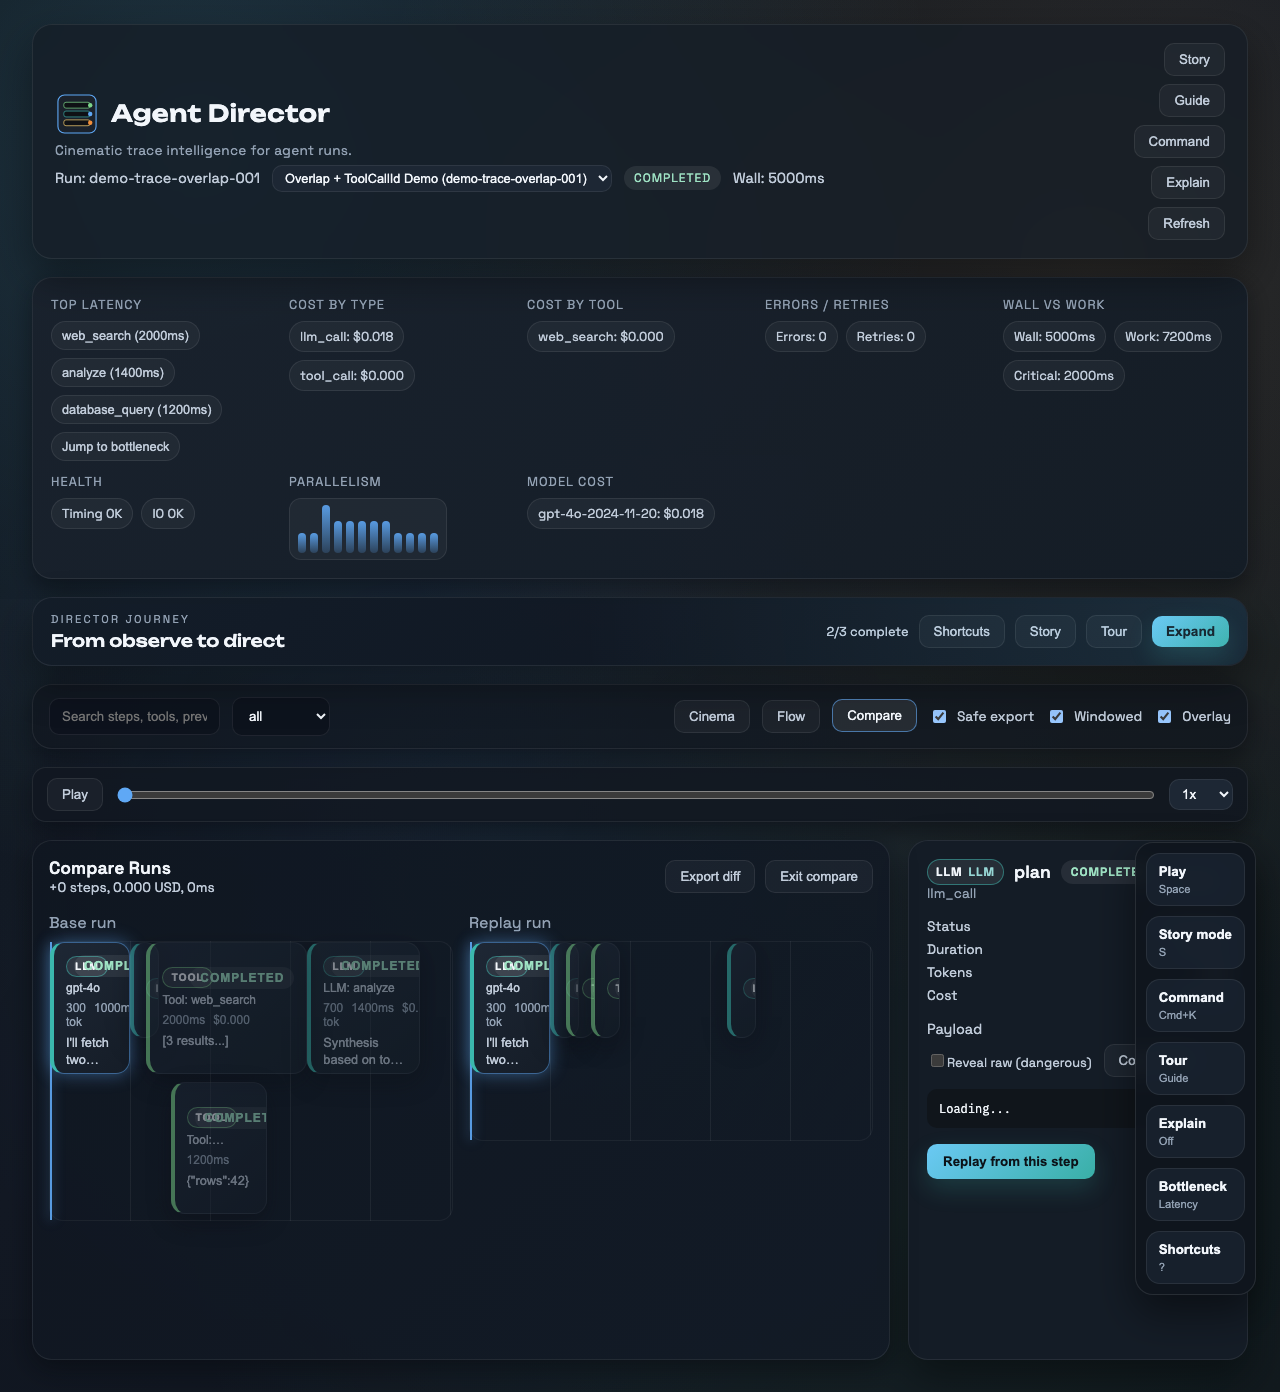
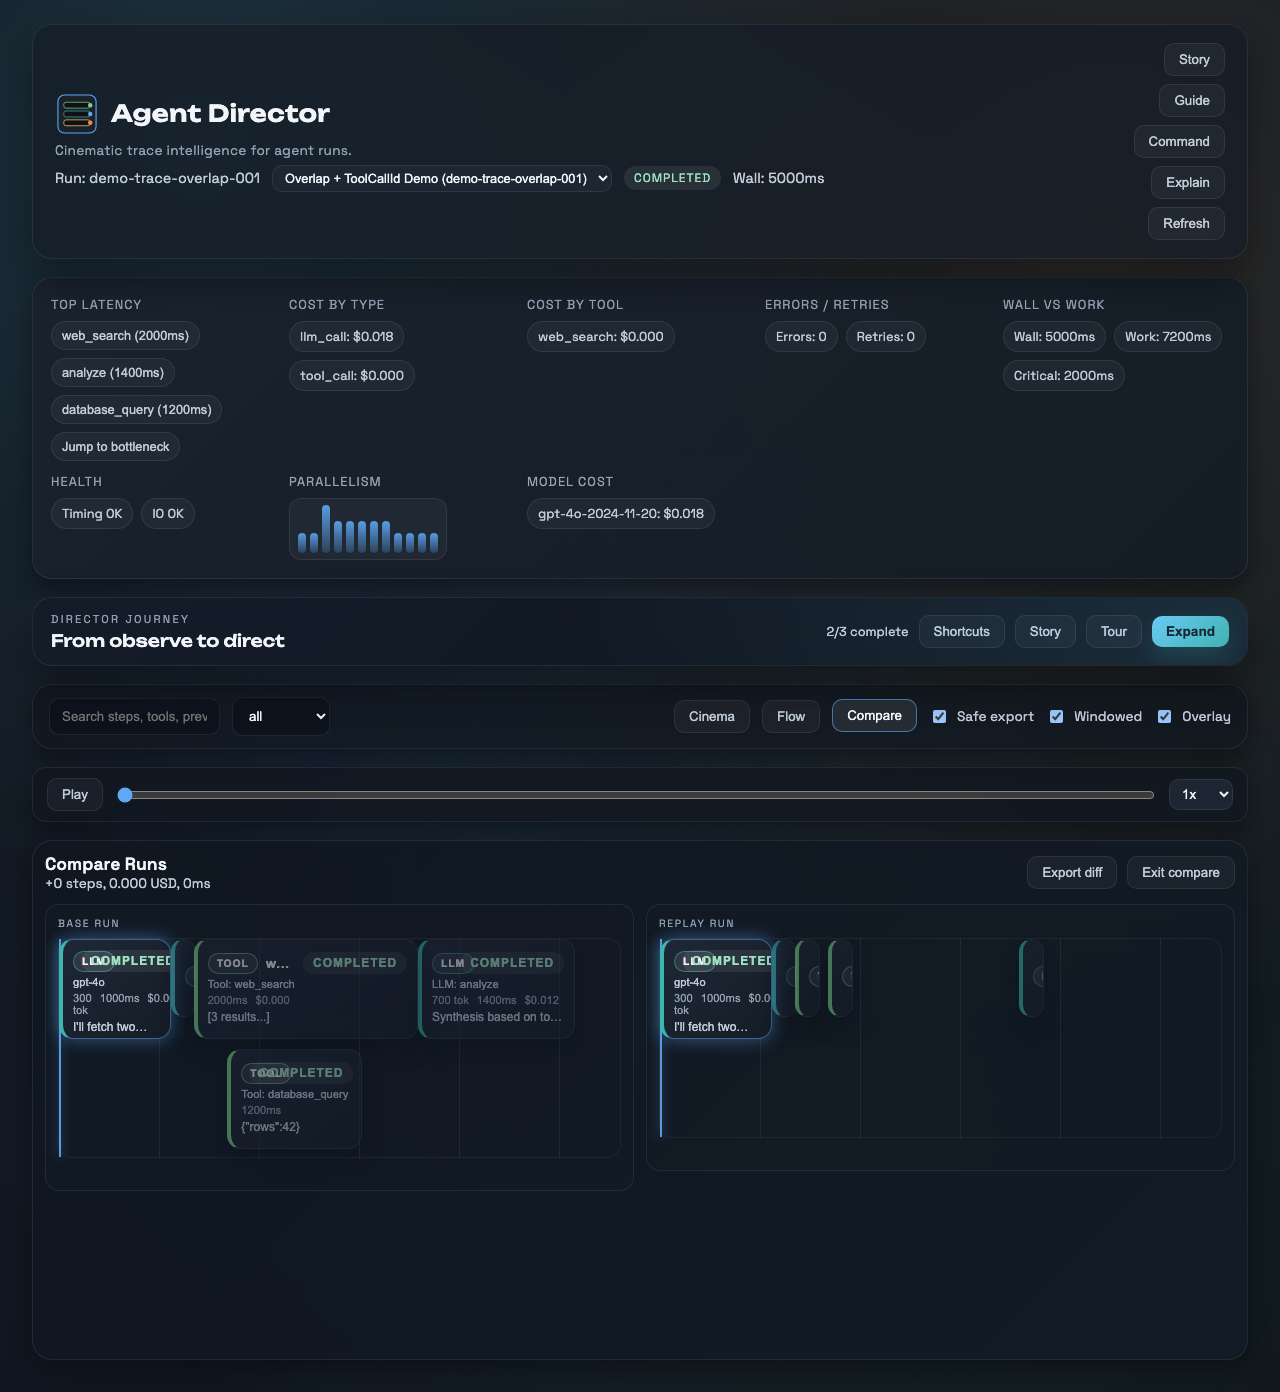
fix(ui): clean compare layout and hide distractions

diff --git a/ui/src/App.tsx b/ui/src/App.tsx
@@ -821,7 +821,7 @@ export default function App() {
   }
 
   return (
-    <div className={`app ${explainMode ? 'explain-mode' : ''}`}>
+    <div className={`app ${explainMode ? 'explain-mode' : ''} ${mode === 'compare' ? 'mode-compare' : ''}`}>
       <Header
         trace={trace}
         traces={traces}
@@ -1042,7 +1042,7 @@ export default function App() {
         </div>
       ) : null}
 
-      <main className="stage" role="main">
+      <main className={`stage ${mode === 'compare' ? 'stage-compare' : ''}`} role="main">
         <div
           className="main"
           ref={viewportRef}
@@ -1094,7 +1094,7 @@ export default function App() {
           </MorphOrchestrator>
         </div>
 
-        {selectedStep ? (
+        {mode === 'compare' ? null : selectedStep ? (
           <Inspector
             traceId={trace.id}
             step={selectedStep}
@@ -1119,6 +1119,7 @@ export default function App() {
         isPlaying={isPlaying}
         storyActive={storyActive}
         explainMode={explainMode}
+        hidden={mode === 'compare'}
         onTogglePlay={togglePlayback}
         onStartStory={startStory}
         onStopStory={stopStory}

diff --git a/ui/src/components/common/QuickActions.tsx b/ui/src/components/common/QuickActions.tsx
@@ -5,6 +5,7 @@ type QuickActionsProps = {
   isPlaying: boolean;
   storyActive: boolean;
   explainMode: boolean;
+  hidden?: boolean;
   onTogglePlay: () => void;
   onStartStory: () => void;
   onStopStory: () => void;
@@ -20,6 +21,7 @@ export default function QuickActions({
   isPlaying,
   storyActive,
   explainMode,
+  hidden = false,
   onTogglePlay,
   onStartStory,
   onStopStory,
@@ -29,6 +31,7 @@ export default function QuickActions({
   onToggleExplain,
   onJumpToBottleneck,
 }: QuickActionsProps) {
+  if (hidden) return null;
   const playLabel = isPlaying ? 'Pause' : 'Play';
   const storyLabel = storyActive ? 'Stop story' : 'Story mode';
 

diff --git a/ui/src/styles/main.css b/ui/src/styles/main.css
@@ -648,6 +648,10 @@ pre {
   align-items: stretch;
 }
 
+.stage-compare {
+  grid-template-columns: minmax(0, 1fr);
+}
+
 .main {
   position: relative;
   background: linear-gradient(135deg, rgba(15, 22, 32, 0.9), rgba(18, 26, 38, 0.9));
@@ -1323,6 +1327,18 @@ pre {
   gap: 16px;
   height: 100%;
   overflow: hidden;
+}
+
+.mode-compare .main {
+  padding: 12px;
+}
+
+.mode-compare .compare-view {
+  gap: 12px;
+}
+
+.mode-compare .compare-grid {
+  gap: 12px;
 }
 
 .compare-header {
